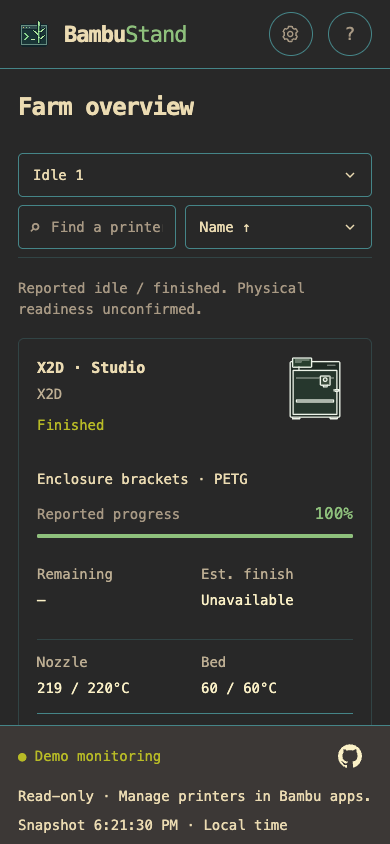
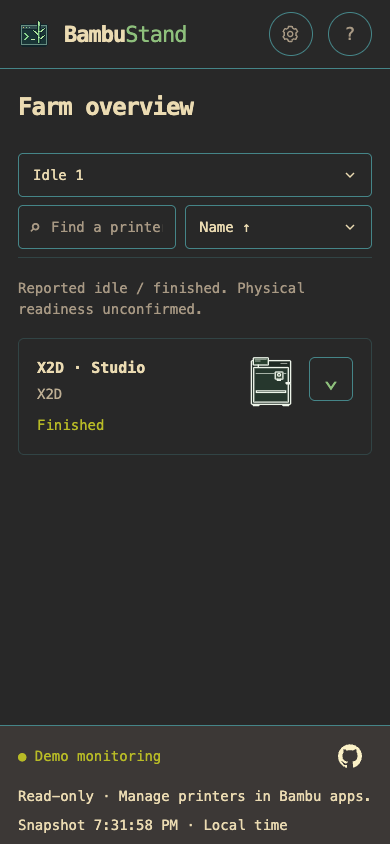
Add expandable mobile printer cards for v0.11.0

diff --git a/internal/webserver/assets/app.js b/internal/webserver/assets/app.js
@@ -27,6 +27,8 @@ const detailTabs = ["status", "filament", "notices"];
 let detailTab = "status", detailScroll = {};
 let selectedSlot = null, readingExpanded = false, detailIdentity = "";
 let restoringCardFocus = false;
+// Browser-local presentation only; retained while filtering/sorting this page.
+const expandedCards = new Set();
 let detailOpener = null;
 let csrfToken = null;
 let snapshot = null,
@@ -124,17 +126,20 @@ function card(p) {
   const offline = p.online === false;
   const label = offline ? "Offline" : status(p);
   const action = (text, kind = "name") => `<button data-action="${kind}" data-open="${escapeHTML(p.id)}" aria-haspopup="dialog"${kind === "notices" ? ' data-notices="true"' : ''}>${text}</button>`;
-  const heading = `<div class="card-head"><div class="card-identity"><h3>${action(escapeHTML(p.name))}</h3><div class="model">${escapeHTML(p.model || "Unknown model")}</div><span class="pill ${p.attention || !current(p) ? "warn" : p.state === "IDLE" ? "neutral" : ""}">${escapeHTML(label)}</span></div><div class="printer-view">${machine(p)}</div></div>`;
+  const expanded = expandedCards.has(p.id);
+  const bodyID = `card-body-${encodeURIComponent(p.id)}`;
+  const toggle = `<button class="card-toggle" data-action="expand" data-open="${escapeHTML(p.id)}" aria-expanded="${expanded}" aria-controls="${escapeHTML(bodyID)}" aria-label="${expanded ? "Collapse" : "Expand"} ${escapeHTML(p.name)} card"><span aria-hidden="true">⌄</span></button>`;
+  const heading = `<div class="card-head"><div class="card-identity"><h3>${action(escapeHTML(p.name))}</h3><div class="model">${escapeHTML(p.model || "Unknown model")}</div><span class="pill ${p.attention || !current(p) ? "warn" : p.state === "IDLE" ? "neutral" : ""}">${escapeHTML(label)}</span></div><div class="printer-view">${machine(p)}</div>${toggle}</div>`;
   const actions = `<div class="card-actions">${p.attention ? action('◇ Attention · view notices', 'notices') : `<span>${p.conditions.some(condition => !condition.hidden) ? 'Reported notices' : 'No active notices'}</span>`}${action('Details ↗', 'details')}</div>`;
-  const opening = `<article class="card ${p.attention ? "warning" : ""}${offline ? " offline" : ""}" data-id="${escapeHTML(p.id)}" tabindex="-1" aria-label="Inspect ${escapeHTML(p.name)}, ${escapeHTML(label)}">`;
-  if (offline) return `${opening}${heading}${actions}</article>`;
+  const opening = `<article class="card ${p.attention ? "warning" : ""}${offline ? " offline" : ""}${expanded ? " expanded" : ""}" data-id="${escapeHTML(p.id)}" tabindex="-1" aria-label="Inspect ${escapeHTML(p.name)}, ${escapeHTML(label)}">`;
+  if (offline) return `${opening}${heading}<div class="card-body" id="${escapeHTML(bodyID)}"></div>${actions}</article>`;
   const slots = allSlots(p).filter((s) => s.present !== false),
     nozzle = p.nozzles.find((n) => n.active) || p.nozzles[0];
   const progress = Number.isFinite(p.progress) ? Math.max(0, Math.min(100, p.progress)) : null;
   const idle = p.state === "IDLE";
   const finish = p.state === "RUNNING" && p.remaining != null && Number.isFinite(Date.parse(p.remaining_reported))
     ? new Date(Date.parse(p.remaining_reported) + p.remaining * 60000).toLocaleTimeString(undefined, {hour: "numeric", minute: "2-digit"}) : "Unavailable";
-  return `${opening}${heading}${!current(p) ? '<p class="card-note telemetry-note">Current state unconfirmed · readings are last-known; missing values remain unknown.</p>' : ""}<div class="job">${idle ? "No active print" : escapeHTML(p.job || "No reported job")}</div>${idle ? "" : `<div class="progress-label"><span>Reported progress</span><strong>${progress === null ? "Unknown" : progress + "%"}</strong></div><div class="progress-track"><span style="width:${progress || 0}%"></span></div><div class="metrics timing"><div>Remaining<strong>${escapeHTML(remaining(p))}</strong></div><div>Est. finish<strong>${finish !== "Unavailable" && (!current(p) || !p.eta_current) ? "Last-known: " : ""}${escapeHTML(finish)}</strong></div></div>`}<div class="metrics"><div>Nozzle<strong>${temperature(nozzle?.temperature)}</strong></div><div>Bed<strong>${temperature(p.bed)}</strong></div></div><div class="card-bottom"><div class="swatches">${slots.slice(0, 4).map(s => swatch(s.color)).join("")}<span>${escapeHTML(slots[0]?.material || "Unknown material")}</span></div><span>${current(p) ? '<i class="green"></i>Fresh' : "◷ Last-known"}</span></div>${actions}</article>`;
+  return `${opening}${heading}${!current(p) ? '<p class="card-note telemetry-note">Current state unconfirmed · readings are last-known; missing values remain unknown.</p>' : ""}<div class="card-body" id="${escapeHTML(bodyID)}"><div class="job">${idle ? "No active print" : escapeHTML(p.job || "No reported job")}</div>${idle ? "" : `<div class="progress-label"><span>Reported progress</span><strong>${progress === null ? "Unknown" : progress + "%"}</strong></div><div class="progress-track"><span style="width:${progress || 0}%"></span></div><div class="metrics timing"><div>Remaining<strong>${escapeHTML(remaining(p))}</strong></div><div>Est. finish<strong>${finish !== "Unavailable" && (!current(p) || !p.eta_current) ? "Last-known: " : ""}${escapeHTML(finish)}</strong></div></div>`}<div class="metrics"><div>Nozzle<strong>${temperature(nozzle?.temperature)}</strong></div><div>Bed<strong>${temperature(p.bed)}</strong></div></div><div class="card-bottom"><div class="swatches">${slots.slice(0, 4).map(s => swatch(s.color)).join("")}<span>${escapeHTML(slots[0]?.material || "Unknown material")}</span></div><span>${current(p) ? '<i class="green"></i>Fresh' : "◷ Last-known"}</span></div></div>${actions}</article>`;
 }
 // Keep connected card/image elements across polls. Replacing #cards.innerHTML
 // recreates lazy, async-decoded images even when their immutable URL is unchanged.
@@ -493,6 +498,14 @@ document.addEventListener("keydown", (event) => {
   selectDetailTab(detailTabs[next], true);
 });
 document.addEventListener("click", (event) => {
+  const toggle = event.target.closest(".card-toggle");
+  if (toggle) {
+    const id = toggle.dataset.open;
+    if (expandedCards.has(id)) expandedCards.delete(id);
+    else expandedCards.add(id);
+    render();
+    return;
+  }
   const tab = event.target.closest("[data-detail-tab]");
   if (tab) { selectDetailTab(tab.dataset.detailTab, true); return; }
   const slot = event.target.closest("[data-slot-key]");

diff --git a/internal/webserver/assets/index.html b/internal/webserver/assets/index.html
@@ -185,7 +185,7 @@
         The Filament tab shows per-unit reported drying status and remaining minutes. Missing values stay unknown; old readings are last-known. Drying settings describe configuration, and the original AMS has no active dryer. Monitoring cannot start or stop drying.
       </p>
       <p>
-        Filters and sorting preserve your printer selection as updates arrive. The Active filter includes printers last reported as running, independently of availability. The Idle filter includes only currently available online printers explicitly reporting Idle or Finished. Offline, stale, missing, and unknown states are excluded; a finished job does not establish that the build plate is clear. Search matches printer names and models. Each status count reflects that search independently of the selected status. On narrow screens, use the Status selector.
+        Filters and sorting preserve your printer selection as updates arrive. The Active filter includes printers last reported as running, independently of availability. The Idle filter includes only currently available online printers explicitly reporting Idle or Finished. Offline, stale, missing, and unknown states are excluded; a finished job does not establish that the build plate is clear. Search matches printer names and models. Each status count reflects that search independently of the selected status. On narrow screens, use the Status selector. Cards start collapsed; use the arrow to expand inline readings or collapse them again. Expansion choices last for this page session, including updates, filtering, sorting, and resizing. Desktop shows full cards. Attention and unavailable-data warnings remain visible when collapsed; the printer name opens Overview.
       </p>
       <p>
         Scrolling the farm compacts the header. The filter, search, and sort toolbar

diff --git a/internal/webserver/assets/style.css b/internal/webserver/assets/style.css
@@ -1417,3 +1417,21 @@ footer { gap: 8px 16px; padding: 8px 32px; font-size: .875rem; }
 @media (max-height: 360px) {
   #detail #close-detail { width: 44px; height: 44px; }
 }
+
+/* Mobile cards disclose telemetry without changing desktop presentation. */
+.card-body { display: flex; flex-direction: column; min-width: 0; }
+.card-toggle { display: none; }
+@media (max-width: 760px) {
+  .card-head { grid-template-columns: minmax(0, 1fr) 60px 44px; gap: 8px; margin-bottom: 0; }
+  .card-head .printer-view, .card-head .printer-view .printer-sprite,
+  .card-head .printer-view svg { width: 60px; height: 76px; }
+  .card-toggle { display: inline-flex; align-items: center; justify-content: center; min-width: 44px; min-height: 44px; padding: 0; background: none; border: 1px solid var(--border); border-radius: 6px; color: var(--green); }
+  .card-toggle span { font-size: 1.5rem; line-height: 1; }
+  .card.expanded .card-toggle span { transform: rotate(180deg); }
+  .card:not(.expanded) .card-body,
+  .card:not(.expanded) .card-actions > span,
+  .card:not(.expanded) [data-action="details"] { display: none; }
+  .card:not(.expanded):not(.warning) .card-actions { display: none; }
+  .card.expanded .card-body { margin-top: 16px; }
+  .card.warning .card-actions { margin-top: 8px; }
+}

diff --git a/internal/buildinfo/buildinfo.go b/internal/buildinfo/buildinfo.go
@@ -4,7 +4,7 @@ import "fmt"
 
 // Release builds inject these through -ldflags. Direct go builds remain useful.
 var (
-	Version = "0.10.1"
+	Version = "0.11.0"
 	Commit  = "unknown"
 	Date    = "unknown"
 )

diff --git a/docs/development/validation.md b/docs/development/validation.md
@@ -7,11 +7,18 @@ This record identifies checks actually performed, their source revisions, observ
 Historical entries were consolidated from the [record at `2e9f74a`](https://github.com/cliffom/bambustand/blob/2e9f74a/docs/development/validation.md). Consolidation adds no new product validation. A local pass reported below is a historical report, not a retained test log or a rerun against the current release. Linked CI runs and repository captures are inspectable evidence; temporary capture paths and user-supplied screenshots without repository links were not archived here. Missing environment or revision details are stated rather than reconstructed. Historical names and compatibility results apply to the revision checked.
 
 
+## Mobile printer card disclosure (#187)
+
+- **Scope:** 2026-11-13; v0.11.0, uncommitted changes based on `dd52e549d139`. Mobile/narrow browser cards default to identity/status summaries with inline expansion; desktop presentation, telemetry interpretation, offline omissions and notice decisions retain their existing contracts.
+- **Method:** macOS 27.2.1 (26B131) arm64, Go 1.27.4, Node 24.22.1, Playwright 1.64.1 and Chrome 157.0.8103.78. Ran 51 dependency-free browser units, 36 existing layout cases plus two compact scenarios, four new disclosure scenarios (390×844, 760×844, 320×568/200%, 568×320/200%), twelve inspector cases, and 28 theme/layout combinations against synthetic `serve --demo` on port 8187. Disclosure checks cover running, idle, finished, attention, unknown/stale, offline, long names, generic artwork, keyboard activation, focus/image continuity, polling, filtering, sorting, resize and inspector entry. Ran `make fmt-check`, pinned lint, `make test check build vuln-check release`, `make docs-check`, version output and diff checks. Refreshed the three affected 390×844 gallery captures and added an expanded example with the documented capture command/filter; inspected all four. Also inspected temporary 320×568/200% collapsed and 568×320/200% expanded views, and a contact sheet of default/all five alternate desktop theme captures at 1280×1200.
+- **Result:** All listed checks passed; no lint findings or known vulnerabilities. Mobile summaries retain attention and unavailable-data warnings, and expansion remains local to printer identity within the page session. Four macOS/Linux arm64/amd64 archives passed inventory, documentation, helper architecture and signature checks; the binary reports 0.11.0. Initial lint stopped because the executable was absent; installing the pinned tool resolved it. Initial packaging rejected the new changelog heading's leading `v`; matching the repository heading format resolved it. Updated README, usage/farm-view guidance, browser Help, UI direction and contributor guidance. Current captures: [mobile overview](../../assets/screenshots/browser-mobile.png), [expanded](../../assets/screenshots/browser-mobile-expanded.png), [offline](../../assets/screenshots/browser-mobile-offline.png), [Gruvbox Dark Idle](../../assets/screenshots/browser-idle-filter-mobile.png). Preserved prior mobile captures under `before-187` names and redirected affected historical evidence. Desktop/theme/filter captures remain accurate because full cards and controls retain their presentation; cropped Settings/inspector and TUI help/captures do not depict mobile farm disclosure and remain accurate.
+- **Limits:** Synthetic Chromium checks only; Safari/Firefox, physical mobile devices, live cloud/hardware and OS notification presentation remain unverified. Enlarged text in very short/narrow windows requires the existing page/workspace scrolling fallback; inspection does not establish every scroll position or font. Temporary logs and additional inspection captures under `/private/tmp/187-*` are unarchived. Packaging is locally ad-hoc signed, without notarization or clean-machine Gatekeeper evidence; no release is published. Existing [remaining live checks](#remaining-live-checks) retain their scope.
+
 ## Status toolbar spacing and mobile label refinement (#185)
 
 - **Scope:** 2026-11-13; v0.10.1 follow-up to the owner's desktop/mobile screenshots, with uncommitted changes based on `b1366a85ad4c`. Adds 0.75rem horizontal padding to desktop status buttons and hides the mobile Status label visually while retaining its accessible name.
 - **Method:** Same macOS 27.2.1, Go 1.27.4, Node 24.22.1, Playwright 1.64.1 and Chrome 157.0.8103.78 environment as the entry below. Ran all 50 browser units, the 36 layout cases plus two compact scenarios and 28 theme/layout combinations using the same sizes/states/themes listed below. Added checks for desktop horizontal padding, accessible Status naming, a visually hidden label and full-width mobile dropdown alignment. Built the embedded assets and reran `make release`, `make docs-check` and diff checks. Port 8080 was occupied by a non-demo server; acceptance/capture scripts refused that endpoint, then ran against synthetic `serve --demo` at port 8185. Refreshed the same twelve affected gallery images with the documented capture tool/filter and visually inspected all twelve for spacing, counts, mobile width, focus outlines and clipping.
-- **Result:** Browser units, layout/theme cases, packaging and documentation checks passed. Desktop labels/counts have more separation; mobile status selection uses the full row without a visible prefix, with its accessible Status name retained. Updated usage/UI direction and release notes; representative captures are [desktop](../../assets/screenshots/browser.png), [mobile](../../assets/screenshots/browser-mobile.png) and [mobile Idle](../../assets/screenshots/browser-idle-filter-mobile.png). Earlier results below retain their referenced pre-spacing captures. README caption, browser Help, cropped Settings/inspector captures, TUI help/captures and farm-view guidance remain accurate because none promise a visible Status prefix or specific button spacing. v0.10.1 remains the prepared release version.
+- **Result:** Browser units, layout/theme cases, packaging and documentation checks passed. Desktop labels/counts have more separation; mobile status selection uses the full row without a visible prefix, with its accessible Status name retained. Updated usage/UI direction and release notes; representative captures are [desktop](../../assets/screenshots/browser.png), [mobile](../../assets/screenshots/browser-mobile-before-187.png) and [mobile Idle](../../assets/screenshots/browser-idle-filter-mobile-before-187.png). Earlier results below retain their referenced pre-spacing captures. README caption, browser Help, cropped Settings/inspector captures, TUI help/captures and farm-view guidance remain accurate because none promise a visible Status prefix or specific button spacing. v0.10.1 remains the prepared release version.
 - **Limits:** Synthetic Chromium evidence only; other browsers, real mobile devices and live hardware remain unverified. Packaging remains locally ad-hoc signed without notarization/Gatekeeper evidence. Temporary acceptance logs/captures under `/private/tmp/185-spacing-*` are unarchived; existing [remaining live checks](#remaining-live-checks) are unchanged.
 
 ## Browser status labels and circular totals (#185)

diff --git a/docs/development/contributing.md b/docs/development/contributing.md
@@ -86,7 +86,7 @@ For UI and operator-visible behavior changes, complete the [documentation and sc
 
 For browser changes, run `node --test tools/test-browser-notices.cjs tools/test-browser-notifications.cjs tools/test-browser-themes.cjs` with Node.js 18 or newer (also run by Formatting and lint CI). These dependency-free tests exercise the dashboard script with a minimal DOM stand-in; use a real browser separately to inspect layout and keyboard behavior.
 
-For dashboard/filter/status-bar layout regressions, start `./bin/bambustand serve --demo --config /tmp/bambu-layout.toml` with an unused demo configuration path, then run `node tools/test-browser-layout.cjs`. This optional real-browser check requires Playwright (`npm install --prefix /tmp/bambu-browser playwright@1.64.1`, then set `NODE_PATH=/tmp/bambu-browser/node_modules`) and a compatible Chromium installation (`/tmp/bambu-browser/node_modules/.bin/playwright install chromium`, or set `BROWSER_PATH` to an installed Chrome executable). Set `DEMO_URL` for a non-default demo port and `SCREENSHOT_DIR` to save screenshots. It checks shortened status labels, circular count bounds (including zero and multi-digit totals), search-aware status counts and mobile selector parity, query/status recovery, separate Details/Notices actions, reduced motion, empty/single/24-printer fixtures, idle/finished membership and attention overlap, feed loss/recovery, focused-card fallback, image continuity, scrolling/polling, header collapse/restoration at and near the scroll limit, toolbar pinning and small-workspace fallback, pinned-control focus, telemetry reflow anchoring and focus restoration, filtering, dialogs and keyboard focus at desktop/mobile widths, short landscape heights, and 200% root text size, including the page-scrolling fallback with the outer page already scrolled when header/footer space is insufficient; it rejects non-demo servers. It is separate from the dependency-free CI tests.
+For dashboard/filter/status-bar layout regressions, start `./bin/bambustand serve --demo --config /tmp/bambu-layout.toml` with an unused demo configuration path, then run `node tools/test-browser-layout.cjs`. This optional real-browser check requires Playwright (`npm install --prefix /tmp/bambu-browser playwright@1.64.1`, then set `NODE_PATH=/tmp/bambu-browser/node_modules`) and a compatible Chromium installation (`/tmp/bambu-browser/node_modules/.bin/playwright install chromium`, or set `BROWSER_PATH` to an installed Chrome executable). Set `DEMO_URL` for a non-default demo port and `SCREENSHOT_DIR` to save screenshots. It checks mobile card disclosure across states, keyboard expansion, polling/filter/sort/resize retention and inspector access, shortened status labels, circular count bounds (including zero and multi-digit totals), search-aware status counts and mobile selector parity, query/status recovery, separate Details/Notices actions, reduced motion, empty/single/24-printer fixtures, idle/finished membership and attention overlap, feed loss/recovery, focused-card fallback, image continuity, scrolling/polling, header collapse/restoration at and near the scroll limit, toolbar pinning and small-workspace fallback, pinned-control focus, telemetry reflow anchoring and focus restoration, filtering, dialogs and keyboard focus at desktop/mobile widths, short landscape heights, and 200% root text size, including the page-scrolling fallback with the outer page already scrolled when header/footer space is insufficient; it rejects non-demo servers. It is separate from the dependency-free CI tests.
 
 With that demo server and Playwright environment, run `node tools/test-browser-inspector.cjs` for Overview/Filament/Notices keyboard navigation, selected-slot identity/removal, expanded Reading details, long printer/job names and unknown progress, independent time estimates, fixed controls and panel scrolling, telemetry/focus retention, populated/empty/all-hidden notices, local hiding/save feedback, reported drying/zero/unsupported states and independent aging, unavailable filament/status, opening/reopening selected-tab visibility, action identity through idle-to-running card replacement and repeated notification re-entry, and close/reopen/attention entry points across twelve desktop/mobile/short-window and 200% text combinations. `SCREENSHOT_DIR` saves each panel at each size. Like the other layout checks, it uses synthetic fixtures and establishes Chromium behavior only.
 

diff --git a/docs/development/ui-direction.md b/docs/development/ui-direction.md
@@ -85,7 +85,7 @@ Compact the branding/Settings/Help header when the farm workspace scrolls down a
 
 Use one primary browser status toolbar (All, Active, Idle, Attention, Unavailable), with search and sort. Counts intersect each status predicate with the current name/model search independently of the selected status. Clearing search restores farm-wide counts. Put every desktop status total in a circular, theme-colored outline badge, with room for zero and multi-digit totals at enlarged text sizes. Give desktop status buttons horizontal padding to separate neighboring labels and badges. On narrow screens show a full-width Status selector instead of the desktop buttons, with identical counts and a visually hidden accessible label. Status and Sort use consistently sized, centered, inset chevrons with reserved text space. Omit whole-farm summary panels and visible duplicate result counts; announce results through a visually hidden live region. Keep snapshot/local-time metadata in the footer. Idle includes reported Idle or Finished and requires current telemetry, an available browser feed and a connected session; exclude unknown/offline/stale readings. Active retains last-reported running-state membership; attention may overlap other groups. Never claim physical readiness. Empty results explain the query/status intersection and offer Clear search and/or Show all statuses; restore focus to search or the visible status control. If a focused printer leaves the view, return focus to the visible active status control.
 
-Cards consolidate name, model and textual status on the left with top-aligned decorative artwork on the right. Keep idle cards short with No active print and available telemetry. Name and Details actions open Overview; the separate attention action opens Notices, as do system notifications. Keep action targets at least 44 CSS pixels at default text. Preserve each focused action and connected artwork across polls. Use restrained theme-derived borders. Keep the inspector tabs in a single horizontally scrollable row; all remain reachable by touch and keyboard. At narrow widths/enlarged text, omit decorative header art/model, constrain the scrollable title, and reserve space for readable panel content and Close. The approved [Design study 02](../reference/design/dashboard-study-02.html) is a synthetic visual reference, not production or hardware evidence.
+Cards consolidate name, model and textual status on the left with top-aligned decorative artwork on the right. At widths up to 760 CSS pixels, default to a collapsed identity/status summary with an accessible 44px expand/collapse arrow; expanding reveals inline telemetry and Details. Preserve each printer’s expansion choice through polling, filtering, sorting and resizing within the page session; desktop always shows full cards. Keep attention actions and current-state-unconfirmed warnings visible when collapsed, and retain name-to-Overview access. Explicitly offline cards remain free of telemetry even when expanded. Keep idle cards short with No active print and available telemetry. Name and Details actions open Overview; the separate attention action opens Notices, as do system notifications. Keep action targets at least 44 CSS pixels at default text. Preserve each focused action and connected artwork across polls. Use restrained theme-derived borders. Keep the inspector tabs in a single horizontally scrollable row; all remain reachable by touch and keyboard. At narrow widths/enlarged text, omit decorative header art/model, constrain the scrollable title, and reserve space for readable panel content and Close. The approved [Design study 02](../reference/design/dashboard-study-02.html) is a synthetic visual reference, not production or hardware evidence.
 
 For devices explicitly reported offline (`online === false`), show only name, model, decorative image/fallback, a textual Offline label, and any attention warning on the browser card. Omit job/progress, time estimates, temperatures, and material details. Use a dashed border and desaturated, dimmed image while retaining readable text, theme contrast, keyboard focus, and access to the inspector. Preserve image/card identity through online/offline transitions. Stale/missing telemetry and cloud/browser-feed disconnection do not independently select this layout; offline never establishes fault resolution.
 

diff --git a/docs/user/usage.md b/docs/user/usage.md
@@ -165,13 +165,17 @@ The **Notices** tab keeps reported conditions and local notice controls separate
 
 The [compact idle example](../../assets/screenshots/browser-idle.png) shows an A1 mini with No active print alongside printing and paused devices, without padding idle cards to printing height.
 
-The [scrolled desktop view](../../assets/screenshots/browser-scrolled.png) shows the compact header and pinned filter/search/sort toolbar at 1280 × 640. The toolbar also stays visible in the mobile offline-card view below.
+The [scrolled desktop view](../../assets/screenshots/browser-scrolled.png) shows the compact header and pinned filter/search/sort toolbar at 1280 × 640. The mobile offline-card view below shows the compact cards; the toolbar stays visible when scrolling reaches it.
 
 The [Appearance and notification settings](../../assets/screenshots/browser-themes.png) capture above shows the theme selector and Enable/Test/Disable controls with automatic browser notifications off. The [Idle filter](../../assets/screenshots/browser-idle-filter.png) and [mobile Status selector in Gruvbox Dark](../../assets/screenshots/browser-idle-filter-mobile.png) captures use a separate synthetic finished-printer scenario; it does not establish that a printer is physically ready.
 
-| Mobile overview | Mobile offline card after scrolling |
+On screens up to 760 CSS pixels wide, cards start collapsed to the name, model, image, and status. Use the arrow to expand or collapse inline readings; the choice stays with each printer during this page session, including filtering, sorting, updates, and resizing. Desktop shows full cards. Attention links and unavailable-data warnings remain visible when collapsed; the printer name still opens Overview. Offline cards never add telemetry when expanded.
+
+[Expanded mobile card](../../assets/screenshots/browser-mobile-expanded.png) shows the inline readings.
+
+| Mobile overview | Mobile offline card |
 | --- | --- |
-| [![Browser overview at a 390 by 844 viewport](../../assets/screenshots/browser-mobile.png)](../../assets/screenshots/browser-mobile.png) | [![Focused offline printer card beneath the compact header and pinned mobile toolbar](../../assets/screenshots/browser-mobile-offline.png)](../../assets/screenshots/browser-mobile-offline.png) |
+| [![Browser overview at a 390 by 844 viewport](../../assets/screenshots/browser-mobile.png)](../../assets/screenshots/browser-mobile.png) | [![Focused offline printer card in the compact mobile overview](../../assets/screenshots/browser-mobile-offline.png)](../../assets/screenshots/browser-mobile-offline.png) |
 
 ### TUI Server Status
 

diff --git a/README.md b/README.md
@@ -22,7 +22,7 @@ A keyboard-driven workspace for your farm: move between printers, inspect job de
 
 ### Web browser dashboard
 
-A visual farm overview with searchable, filterable printer cards, model illustrations, progress, temperatures, and filament. Use Details or the printer name for an Overview with job progress, independent time estimates, and temperature tiles; inspect selectable AMS spool racks in Filament, or review reported conditions in Notices. Paused, stopped, canceled and confirmed finished prints have shared outcome summaries; individual codes and local decisions remain accessible. A separate attention action opens Notices. Status counts follow name/model search; phones use a Status selector. Unknown readings stay unknown. Stale readings are labeled last-known; offline cards show just printer identity and inactive artwork, with reading metadata and notices available through inspection.
+A visual farm overview with searchable, filterable printer cards, model illustrations, progress, temperatures, and filament. Use Details or the printer name for an Overview with job progress, independent time estimates, and temperature tiles; inspect selectable AMS spool racks in Filament, or review reported conditions in Notices. Paused, stopped, canceled and confirmed finished prints have shared outcome summaries; individual codes and local decisions remain accessible. A separate attention action opens Notices. Status counts follow name/model search; phones use a Status selector and compact printer cards with an arrow to expand inline readings. Unknown readings stay unknown. Stale readings are labeled last-known; offline cards show just printer identity and inactive artwork, with reading metadata and notices available through inspection.
 
 ![Browser dashboard with All, Active and Idle status tabs, circular totals, printing and paused printers, a simplified offline card, and the bottom status bar.](assets/screenshots/browser.png)
 

diff --git a/docs/user/farm-view.md b/docs/user/farm-view.md
@@ -53,7 +53,7 @@ Every sort first groups printers in this order:
 2. **Inactive / idle:** online printers with reported `IDLE` or `FINISH` state.
 3. **Offline:** devices reported offline, regardless of their last-known state.
 
-The selected sort applies within each group. The local web dashboard uses the same grouping with its Name, Attention, and State sorts; browser filters/sorts remain session-local. Grouping uses the device online flag and the existing reported state, independently of telemetry freshness or cloud connectivity. Stale states remain last-known, missing states remain unknown, and a disconnected cloud link does not infer that a printer is offline or idle. Telemetry and device updates refresh the ordering while preserving the selected printer's identity, panel focus, and details scroll.
+The selected sort applies within each group. The local web dashboard uses the same grouping with its Name, Attention, and State sorts; browser filters/sorts remain session-local. On narrow browser screens, printer cards start collapsed; the arrow reveals inline readings, while the name opens Overview. Attention links and unavailable-data warnings stay visible when collapsed. Grouping uses the device online flag and the existing reported state, independently of telemetry freshness or cloud connectivity. Stale states remain last-known, missing states remain unknown, and a disconnected cloud link does not infer that a printer is offline or idle. Telemetry and device updates refresh the ordering while preserving the selected printer's identity, panel focus, and details scroll.
 
 Unselected offline rows use the warning color (amber in the default theme). Selected offline rows use the theme's contrasting selection text/background colors. Offline rows show only the printer name and `Offline` link status; all telemetry columns are blank. Compact layouts show `Offline` in the state column because the link column is hidden.
 

diff --git a/docs/CHANGELOG.md b/docs/CHANGELOG.md
@@ -2,6 +2,11 @@
 
 Release changes and upgrade notes are recorded below. Names and scope describe each historical release; see [usage](user/usage.md) for current behavior and the [validation record](development/validation.md) for checked revisions, evidence and outstanding limitations.
 
+## 0.11.0 — Expandable mobile printer cards
+
+- Mobile browser cards start with printer identity, image, and textual status; an accessible arrow expands or collapses inline telemetry and Details.
+- Expansion choices follow printers through page-session updates, filtering, sorting, and resizing. Desktop cards stay fully visible; attention and unavailable-data warnings remain visible when collapsed, and offline cards retain their simplified presentation.
+
 ## 0.10.1
 
 - Shorten browser status tabs to All, Active and Idle, and separate desktop totals in circular badges. Desktop tabs have horizontal spacing, and the full-width mobile Status selector uses the same labels with an accessible, visually hidden label. Filter membership and search-aware counts are unchanged: Active means last reported running, and Idle includes currently available Idle or Finished printers without implying physical readiness. No configuration migration is required.
